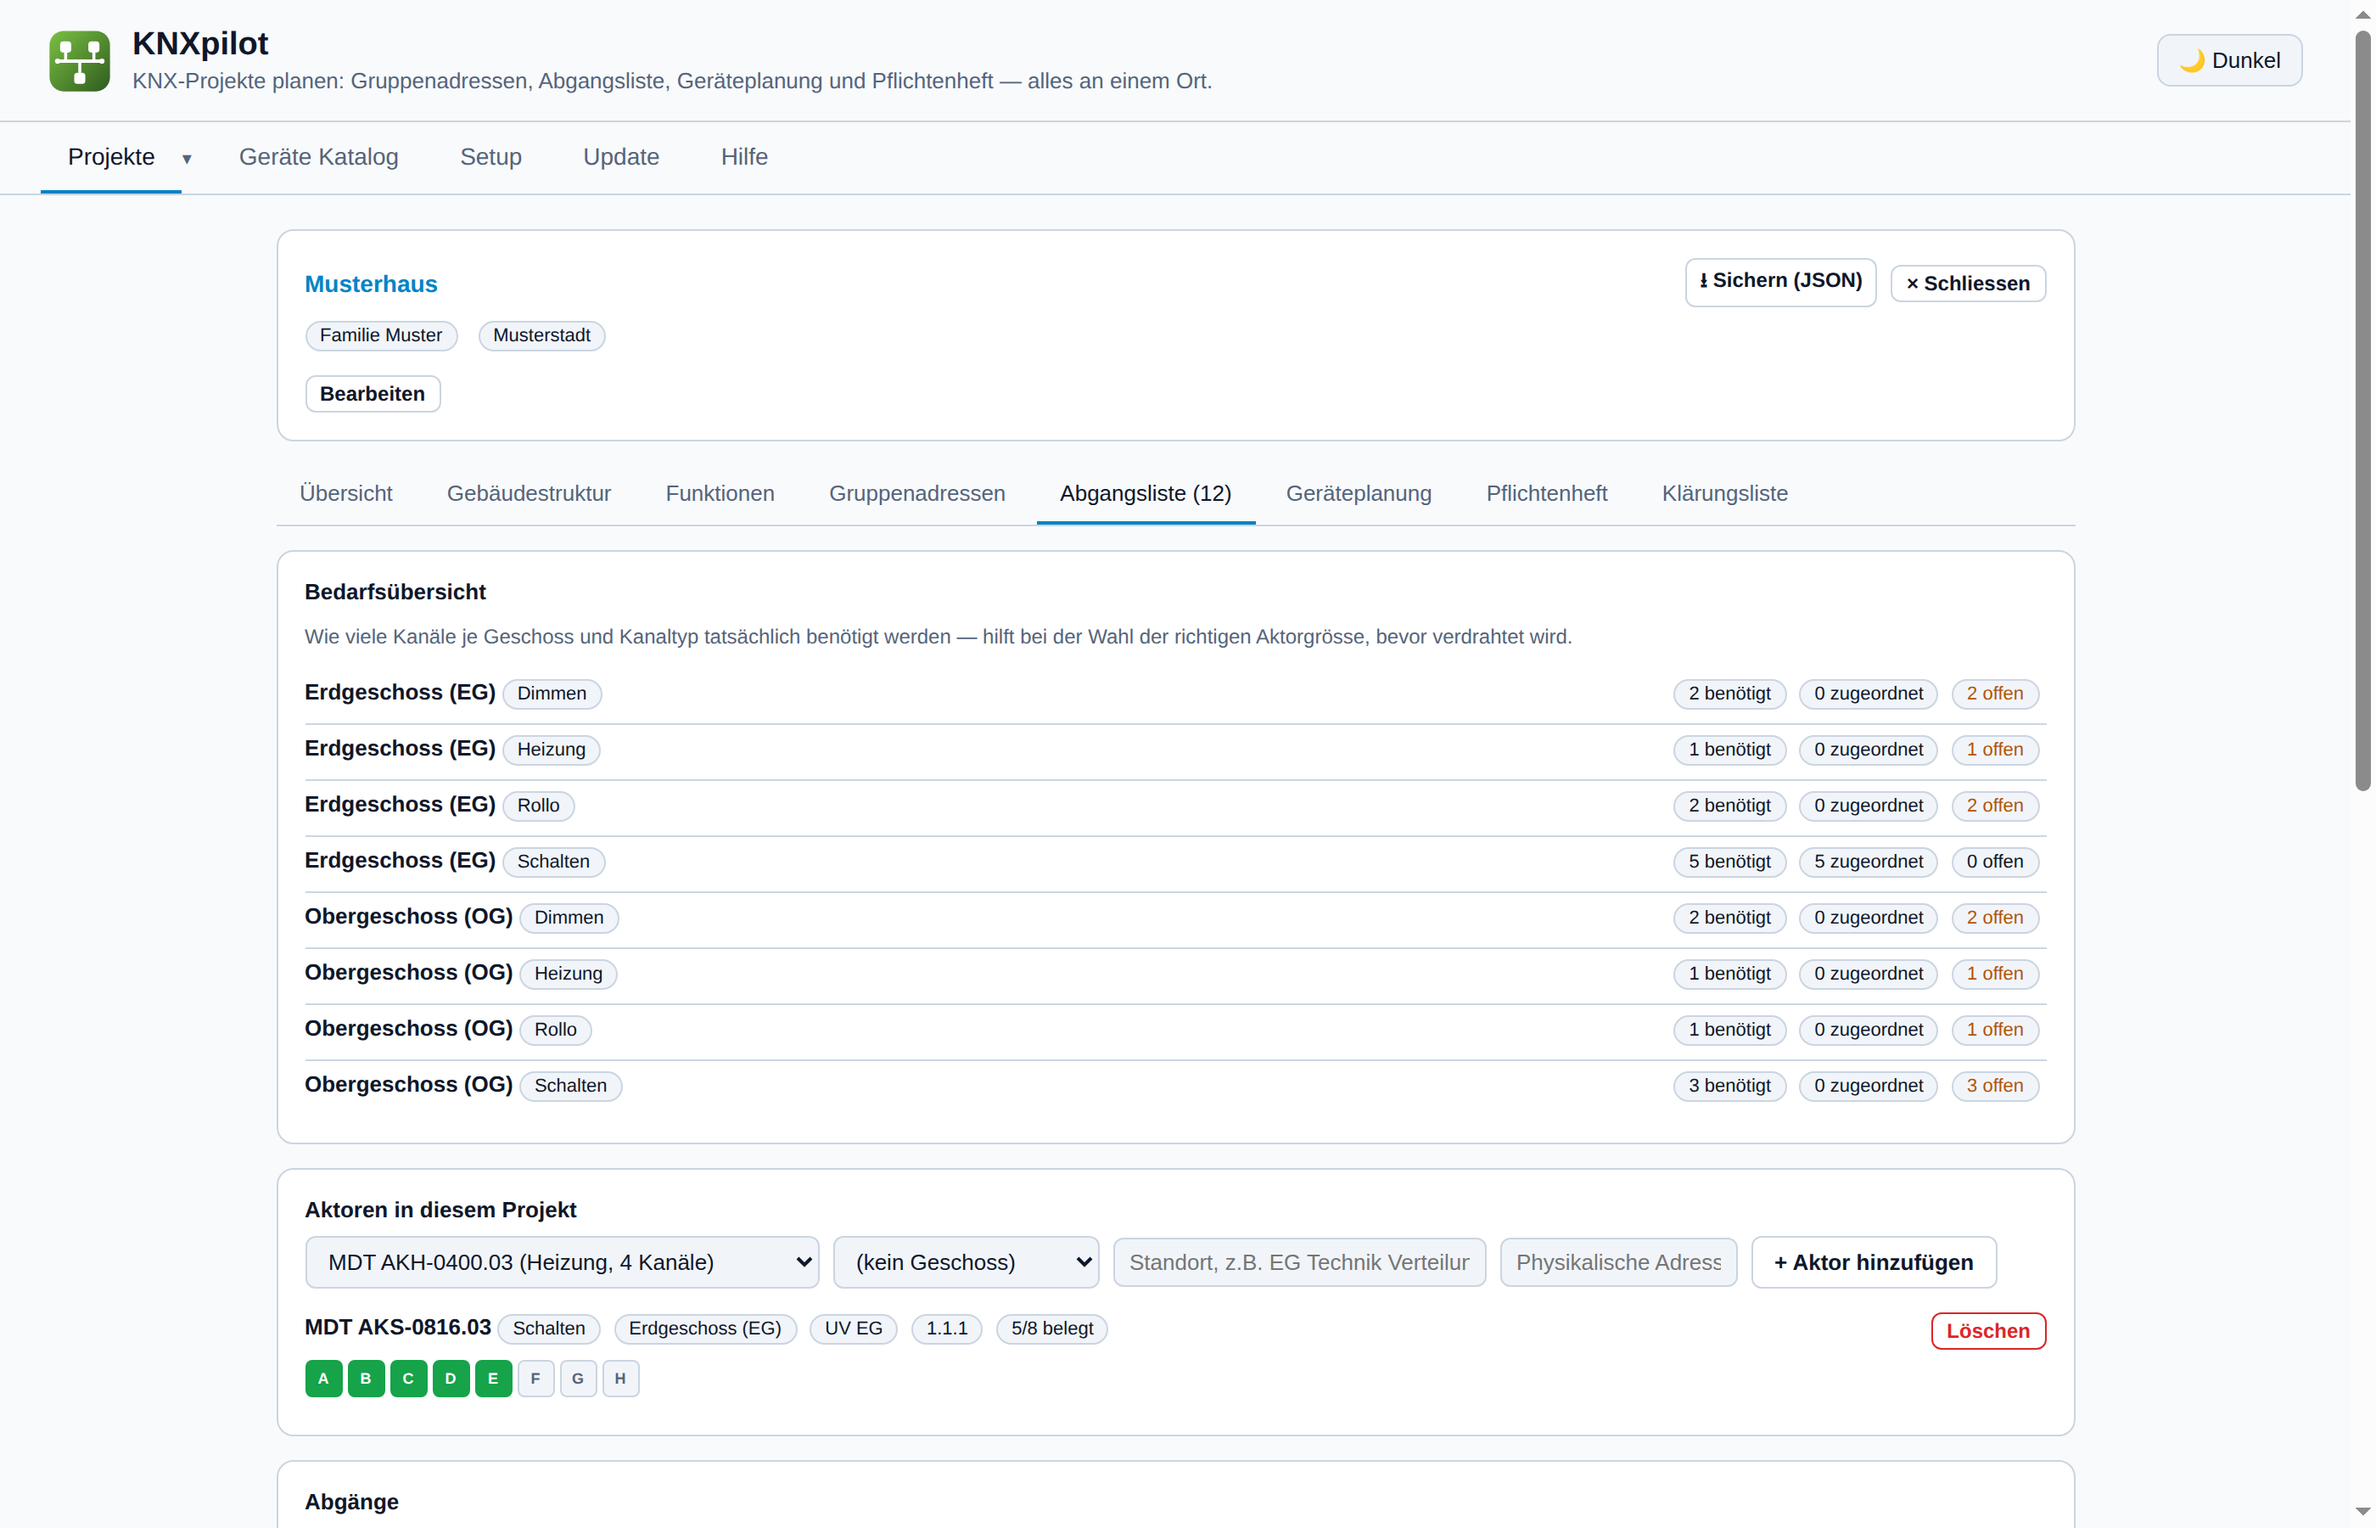
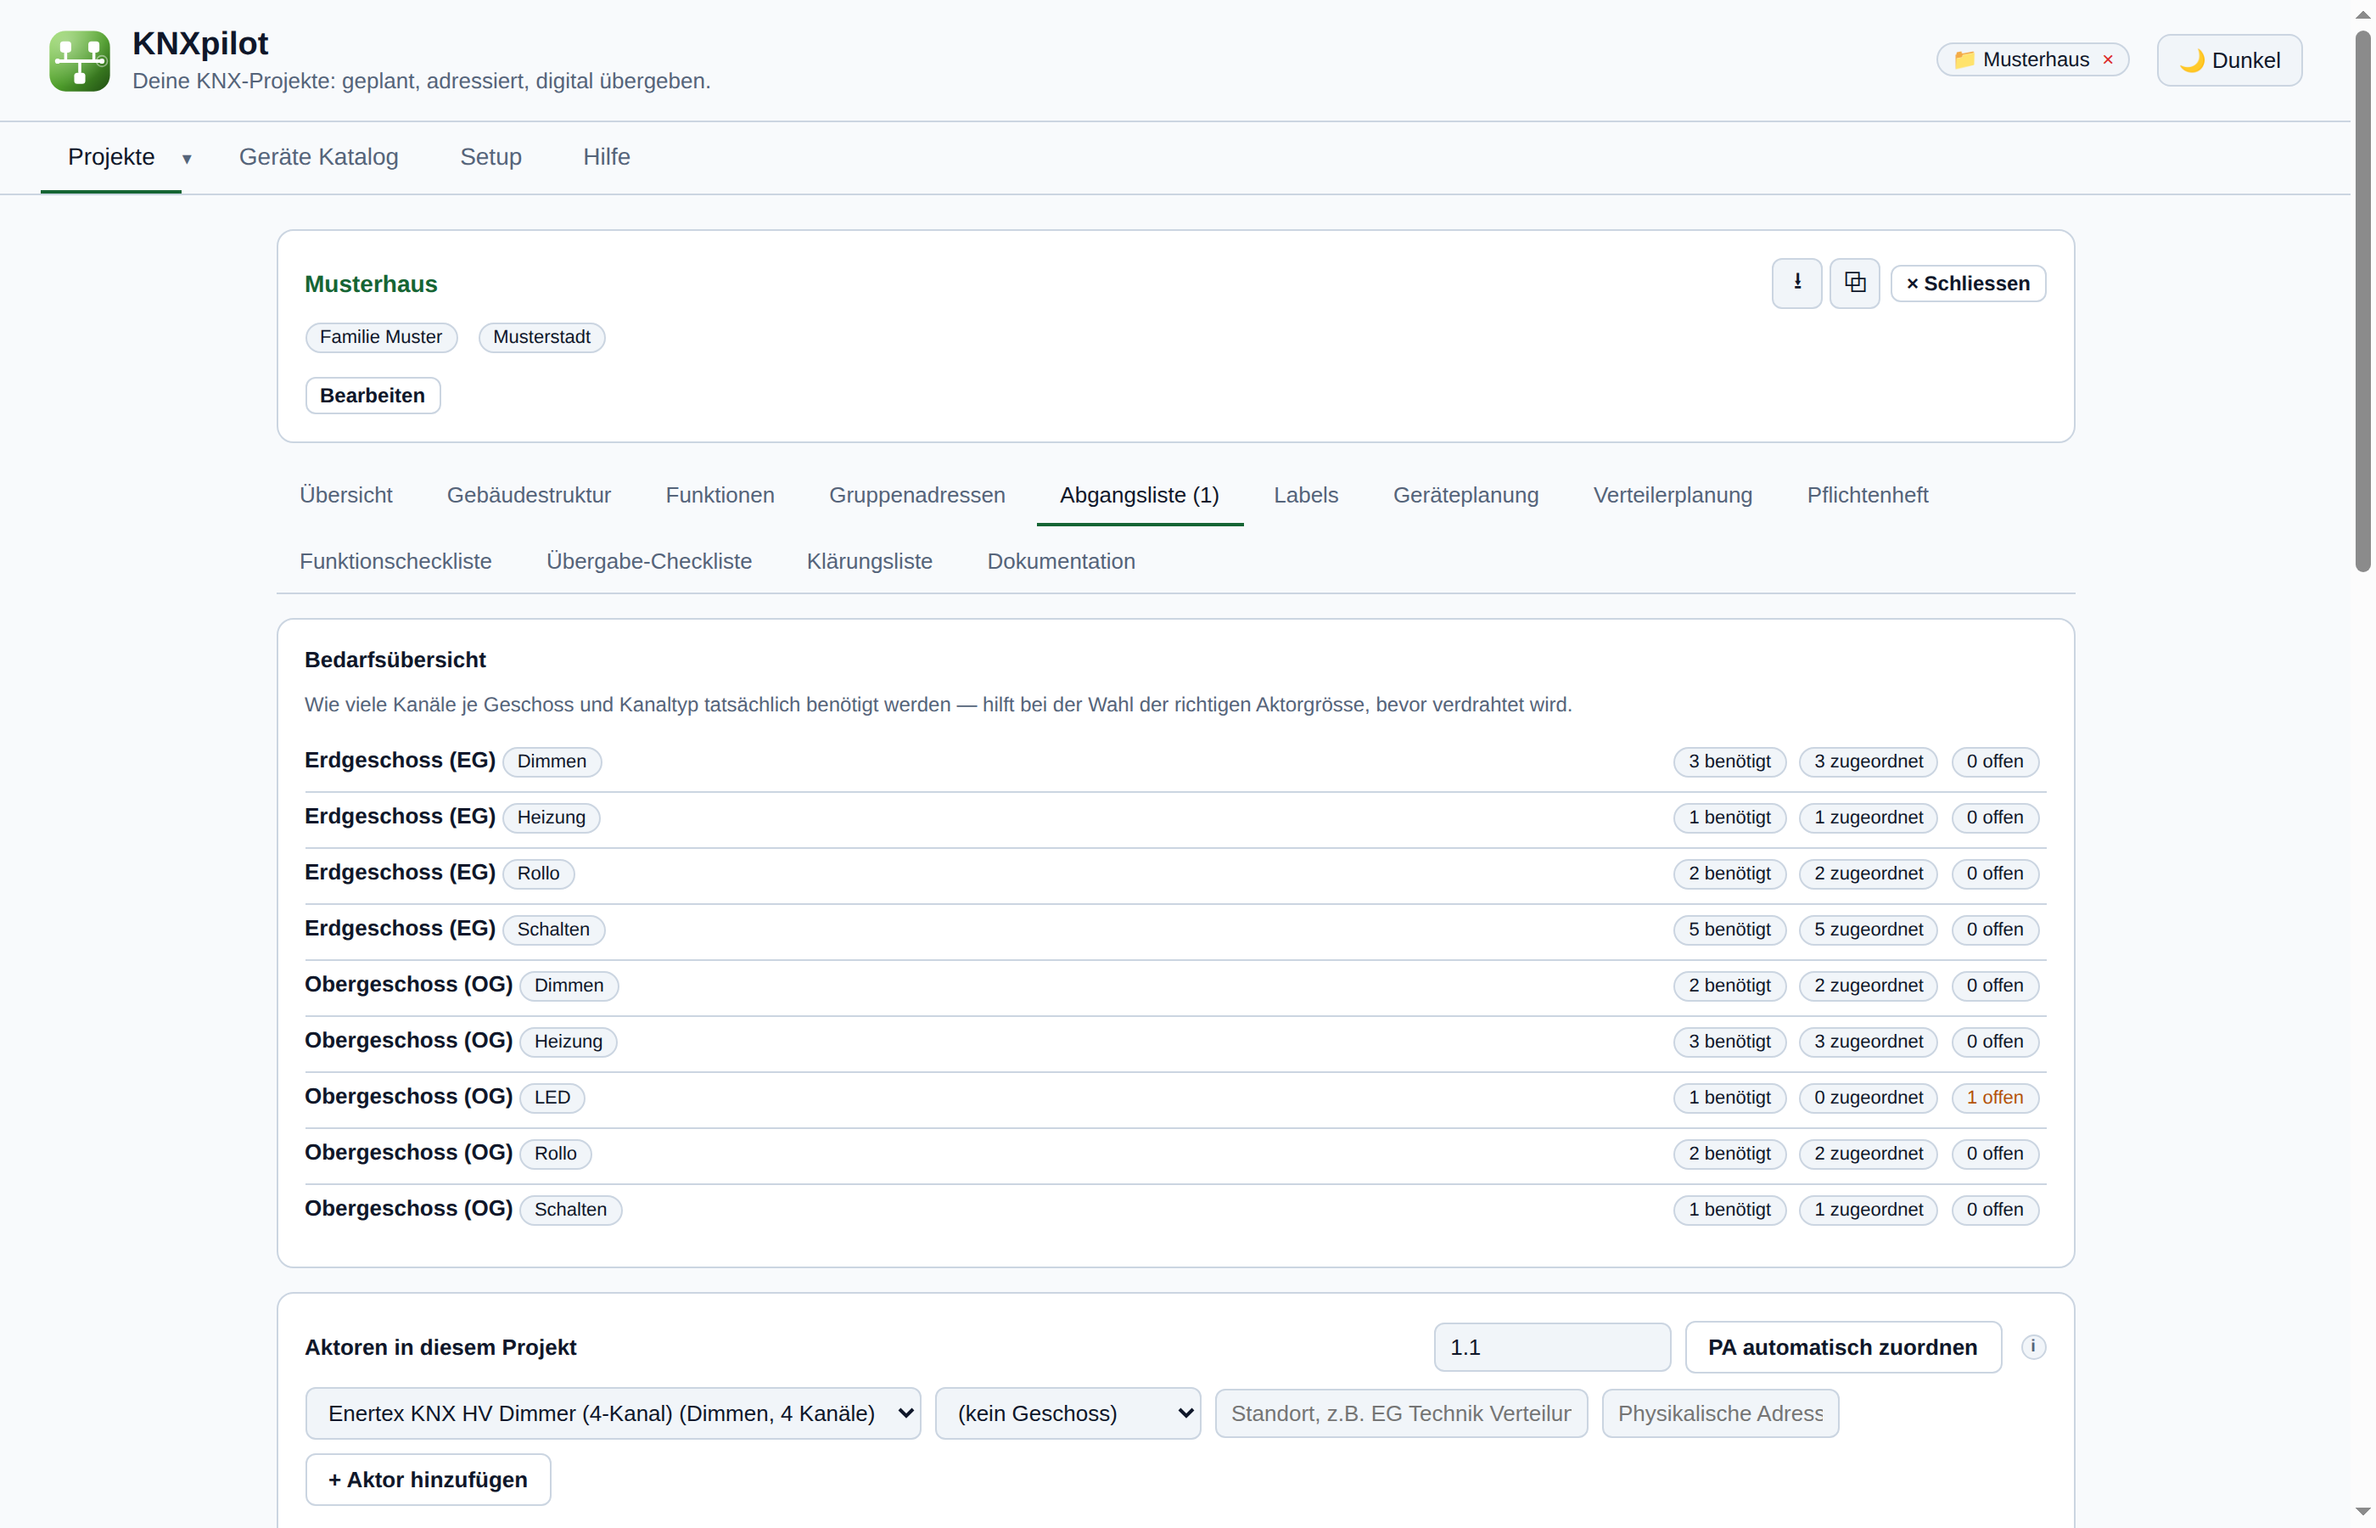
Refine Übergabe-Checkliste content, fix stale Übersicht cards, refresh screenshots
Übergabe-Checkliste content tweaks:
- "Gegensprechanlage" -> "Sprechanlage geprüft"
- Schnittstellen example swapped Musik for PV-Anlage/Wärmepumpe
- Dropped "Raumbezogene Kalibrierung der Raumtemperaturregler"
- Anlagenübergabe consolidated: four overlapping "documentation/software
  handed over" items collapsed into Bedienungsanleitungen,
  Anlagendokumentation, Software/Backups und Passwörter, plus a reworded
  Kundendienst/Übergabe-Protokoll pair

Fixed a real bug found while re-shooting screenshots: the Übersicht
sub-tab's summary cards still said "Pflichtenheft -> Vorschau ansehen"
(stale since that preview was removed) and had no cards at all for the
three tabs added this session (Funktionscheckliste, Übergabe-Checkliste,
Dokumentation).

Regenerated all six README screenshots against one consistent demo
project, picking up the new header/logo, the new tabs, and the content
changes above.

Added three roadmap ideas raised alongside this: auto-fetching device
manuals, storing project credentials for handover, and sending exports
by email (SMTP) directly from KNXpilot.

diff --git a/frontend/js/uebersicht.js b/frontend/js/uebersicht.js
@@ -4,13 +4,16 @@ function goToSubtab(name) {
 }
 
 async function loadUebersichtForCurrentProject() {
-  const [tree, preview, circuits, deviceSummary, klaerungen, verteiler] = await Promise.all([
+  const [tree, preview, circuits, deviceSummary, klaerungen, verteiler, checklistStatus, uebergabeSections, central] = await Promise.all([
     api(`/projects/${CURRENT_PROJECT}/tree`),
     api(`/projects/${CURRENT_PROJECT}/preview`),
     api(`/projects/${CURRENT_PROJECT}/circuits`),
     api(`/projects/${CURRENT_PROJECT}/device-summary`),
     api(`/projects/${CURRENT_PROJECT}/klaerungen`),
     api(`/projects/${CURRENT_PROJECT}/verteiler`),
+    api(`/projects/${CURRENT_PROJECT}/checklist-status`),
+    api('/uebergabe-checklist-sections'),
+    api(`/projects/${CURRENT_PROJECT}/central-functions-checklist`),
   ]);
 
   const floorCount = tree.floors.length;
@@ -25,6 +28,32 @@ async function loadUebersichtForCurrentProject() {
   const totalDevices = deviceSummary.reduce((sum, d) => sum + d.total, 0);
 
   const openKlaerungen = klaerungen.filter(k => k.status === 'offen').length;
+
+  // Funktionscheckliste totals - same per-room fetch pattern as
+  // funktionscheckliste.js's own loader, just counting instead of rendering.
+  let fcTotal = 0, fcChecked = 0;
+  const roomChecklists = await Promise.all(
+    tree.floors.flatMap(f => f.rooms).map(r => api(`/rooms/${r.id}/function-checklist`))
+  );
+  for (const byCategory of roomChecklists) {
+    for (const items of Object.values(byCategory)) {
+      for (const item of items) {
+        fcTotal++;
+        if (checklistStatus[item.key]?.status === 'ok') fcChecked++;
+      }
+    }
+  }
+  for (const [, items] of central) {
+    for (const item of items) {
+      fcTotal++;
+      if (checklistStatus[item.key]?.status === 'ok') fcChecked++;
+    }
+  }
+
+  const uebergabeTotal = uebergabeSections.reduce((sum, sec) => sum + sec.items.length, 0);
+  const uebergabeAnswered = uebergabeSections.reduce(
+    (sum, sec) => sum + sec.items.filter(it => checklistStatus[it.key]?.status).length, 0
+  );
 
   const cards = [
     {
@@ -61,13 +90,28 @@ async function loadUebersichtForCurrentProject() {
     {
       subtab: 'pflichtenheft',
       title: 'Pflichtenheft',
-      body: '→ Vorschau ansehen',
+      body: 'Frühe Leistungsbeschreibung (PDF)',
+    },
+    {
+      subtab: 'funktionscheckliste',
+      title: 'Funktionscheckliste',
+      body: fcTotal ? `${fcChecked} / ${fcTotal} Funktionen getestet` : 'Noch keine Funktionen geplant',
+    },
+    {
+      subtab: 'uebergabe',
+      title: 'Übergabe-Checkliste',
+      body: `${uebergabeAnswered} / ${uebergabeTotal} Punkte beantwortet`,
     },
     {
       subtab: 'klaerungsliste',
       title: 'Klärungsliste',
       body: openKlaerungen ? `${openKlaerungen} offene Einträge` : 'Keine offenen Einträge',
       warn: openKlaerungen > 0,
+    },
+    {
+      subtab: 'dokumentation',
+      title: 'Dokumentation',
+      body: 'Abschlussdokumentation (PDF)',
     },
   ];
 

diff --git a/backend/routers/checkliste.py b/backend/routers/checkliste.py
@@ -154,9 +154,8 @@ CHECKLIST_SECTIONS = [
     ("Funktionsprüfung", [
         ("funktionen_geprueft", "Licht, Dimmer, Jalousien, Zentral Aus, Szenen usw. auf korrekte Funktion geprüft"),
         ("fensterkontakte_geprueft", "Fensterkontakte geprüft"),
-        ("gegensprechanlage_geprueft", "Gegensprechanlage geprüft"),
-        ("schnittstellen_geprueft", "Schnittstellen zu Fremdsystemen geprüft (Musik, Alarm, Lüftung usw.)"),
-        ("heizung_kalibriert", "Raumbezogene Kalibrierung der Raumtemperaturregler"),
+        ("gegensprechanlage_geprueft", "Sprechanlage geprüft"),
+        ("schnittstellen_geprueft", "Schnittstellen zu Fremdsystemen geprüft (PV-Anlage, Wärmepumpe, Alarm, Lüftung usw.)"),
     ]),
     ("Kundengespräch", [
         ("einfuehrung_installation", "Einführung des Kunden in die technische Installation"),
@@ -170,12 +169,12 @@ CHECKLIST_SECTIONS = [
         ("offene_punkte_aufgenommen", "Offene Punkte aufgenommen"),
     ]),
     ("Anlagenübergabe", [
-        ("beschreibungen_vorhanden", "Anlagen-/Gerätebeschreibungen sowie Bedienungsanleitungen in separatem Ordner vorhanden"),
-        ("revisionsunterlagen_vorhanden", "Revisionsunterlagen, Pläne, Schema, Pflichtenheft in separatem Ordner vorhanden"),
-        ("dokumentation_hinterlegt", "Dokumentation der Anlage hinterlegt"),
-        ("uebergabe_software_doku", "Übergabe der Projekt-Software, Anlagendokumentation und aller Handbücher"),
-        ("kundendienst_hinterlassen", "Kundendienst-Telefonnummer hinterlassen / Wartungsvertrag abgeschlossen"),
-        ("abnahmeprotokoll_unterzeichnet", "Abnahme-Protokoll nach Pflichtenheft bzw. DIN 18015-4 unterzeichnet"),
+        ("bedienungsanleitungen_uebergeben", "Bedienungsanleitungen übergeben"),
+        ("anlagendokumentation_uebergeben", "Anlagendokumentation (Pläne, Checklisten, Finale Dokumentation) übergeben"),
+        ("software_backups_uebergeben", "Software und Backups übergeben (ETS-Software, Visualisierung)"),
+        ("passwoerter_uebergeben", "Passwörter übergeben"),
+        ("kundendienst_hinterlassen", "Kundendienst-Kontaktdaten hinterlassen / Wartungsvertrag angeboten/abgeschlossen"),
+        ("abnahmeprotokoll_unterzeichnet", "Übergabe-Protokoll unterzeichnet"),
     ]),
 ]
 

diff --git a/ROADMAP.md b/ROADMAP.md
@@ -13,6 +13,27 @@ nobody trusts.
   zip of XML) to pre-populate a KNXpilot project's group addresses, instead
   of always starting from a blank building. High value, but real work
   against ETS's file format.
+- [ ] **Auto-fetch device manuals/documentation** — once a project's
+  actual devices are known (Geräteplanung/Abgangsliste), automatically
+  find/attach the manufacturer's manual or datasheet instead of the
+  system integrator tracking them down manually - would back the
+  Übergabe-Checkliste's "Bedienungsanleitungen übergeben" item. Needs a
+  source (manufacturer sites don't have a uniform API/URL scheme) - likely
+  starts as a manually-curated link per `actor_types` entry rather than
+  live fetching.
+- [ ] **Store project credentials (Passwörter)** — a place to record the
+  ETS project password, visualization/app login, router Wi-Fi credentials
+  etc. per project, so handover can include them instead of tracking them
+  separately - would back the Übergabe-Checkliste's "Passwörter übergeben"
+  item. Security-sensitive: needs real thought on encryption at rest before
+  building, not just a plain-text column - this isn't a "just add a field"
+  task.
+- [ ] **Send documentation by email (SMTP)** — send the Dokumentation/
+  Übergabe-Checkliste PDF (and other exports) directly to the customer from
+  inside KNXpilot instead of downloading and attaching it manually. Needs
+  an SMTP config in Setup (mirroring the existing Nextcloud/backup
+  credential pattern) and a "send" action next to the existing PDF
+  downloads.
 
 ## Explicitly deferred
 

diff --git a/CHANGELOG.md b/CHANGELOG.md
@@ -33,12 +33,20 @@ restructuring below — history before that is available via `git log`.
     a blank line, no printing/scanning needed. New `project_signatures`
     table, new endpoints (`GET/PUT/DELETE
     /api/projects/{id}/signatures[/{role}]`,
-    `GET /api/projects/{id}/signatures/{role}/image`).
+    `GET /api/projects/{id}/signatures/{role}/image`). Anlagenübergabe
+    section consolidated - four overlapping "is documentation/software
+    handed over" items collapsed into one clear item each (Bedienungs-
+    anleitungen, Anlagendokumentation, Software/Backups, Passwörter).
   - **Dokumentation** (new): the end-of-project assembly - Pflichtenheft's
     spec content plus both checklists' actual recorded results, plus the
     optional as-built sections (Abgangsliste, Verteilerplanung,
     Gruppenadressen, Klärungsliste, Geräte je Raum) moved here from
     Pflichtenheft's old Setup toggles (now under Setup → Dokumentation).
+
+  The Übersicht sub-tab's summary cards now cover all three new tabs
+  (Funktionscheckliste/Übergabe-Checkliste show a checked/answered count,
+  Dokumentation a static card) and no longer show Pflichtenheft's old
+  "→ Vorschau ansehen" text (stale since that tab's preview was removed).
 
   New `checklist_status` table (shared by both digital checklists), new
   `backend/routers/checkliste.py` (`GET/PUT

diff --git a/MANUAL.md b/MANUAL.md
@@ -114,7 +114,7 @@ Projekt über **Projekt öffnen** auszuwählen wechselt direkt dorthin, ohne
 das erste vorher schliessen zu müssen. **× Schliessen** (oder das **×**
 an der 📁-Marke im Programmkopf) kehrt zur Projektliste zurück, ohne
 etwas zu löschen — beim nächsten Öffnen startet der Arbeitsbereich wieder
-beim Unterreiter Übersicht, der auf einen Blick zeigt, wie weit acht der
+beim Unterreiter Übersicht, der auf einen Blick zeigt, wie weit elf der
 übrigen Unterreiter gediehen sind (mit direktem Sprung dorthin per Klick)
 — nur Labels fehlt hier, da es keine sinnvolle Kurzkennzahl dafür gibt.
 
